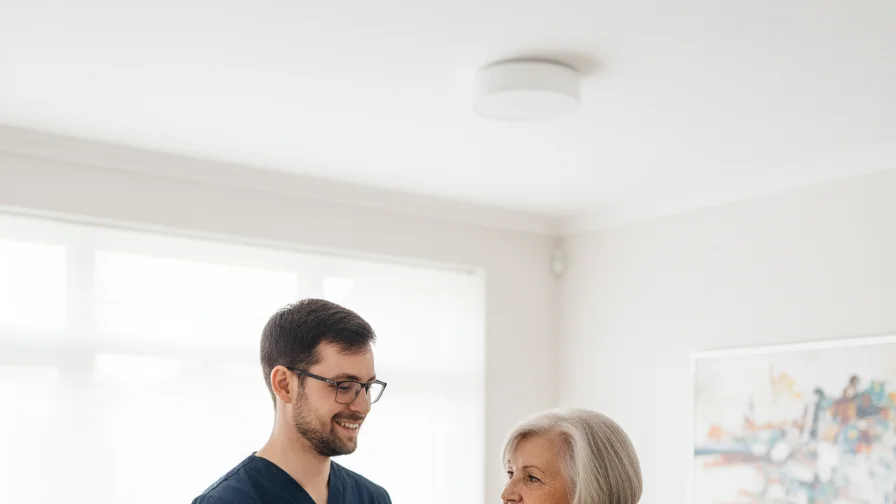
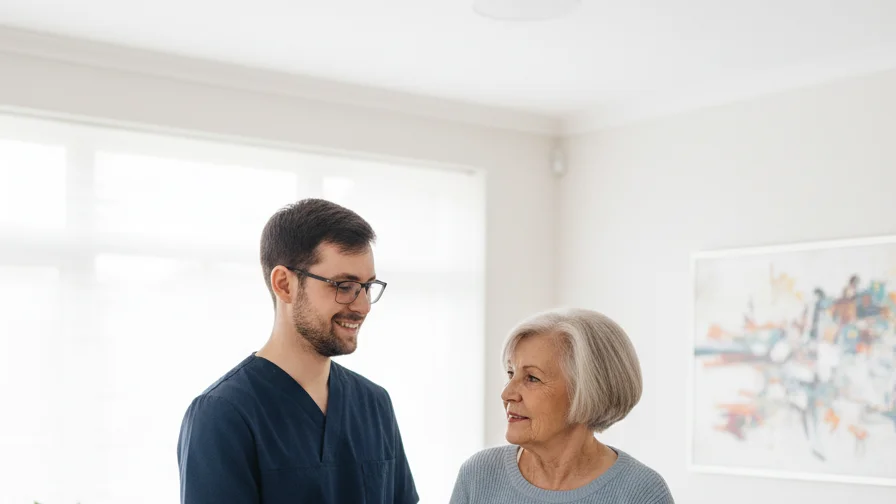
fix: neurologie blogfoto strakker bijgesneden op gezichten
Crop verschoven van y=20 naar y=120 zodat gezichten van therapeut
en patiënt direct bovenaan de afbeelding staan. object-position:top
voor de kaart zodat gezichten altijd zichtbaar zijn.

diff --git a/physiovisit_new_site/blog/index.html b/physiovisit_new_site/blog/index.html
@@ -424,7 +424,7 @@
                         <!-- Article 17 - Neurologische Kinesitherapie aan Huis -->
                         <div class="col-lg-6">
                             <div class="card h-100 border-0 shadow">
-                                <img src="../assets/img/blog-neurologische-kinesitherapie.webp" alt="Neurologische kinesitherapie aan huis beroerte Parkinson" class="card-img-top" style="height: 220px; object-fit: cover; object-position: center;" width="896" height="504">
+                                <img src="../assets/img/blog-neurologische-kinesitherapie.webp" alt="Neurologische kinesitherapie aan huis beroerte Parkinson" class="card-img-top" style="height: 220px; object-fit: cover; object-position: top;" width="896" height="504">
                                 <div class="card-body">
                                     <span class="badge mb-2" style="background-color: #D4A373;">Neurologie</span>
                                     <h5 class="card-title">Neurologische Kinesitherapie aan Huis: Beroerte, Parkinson & MS</h5>
